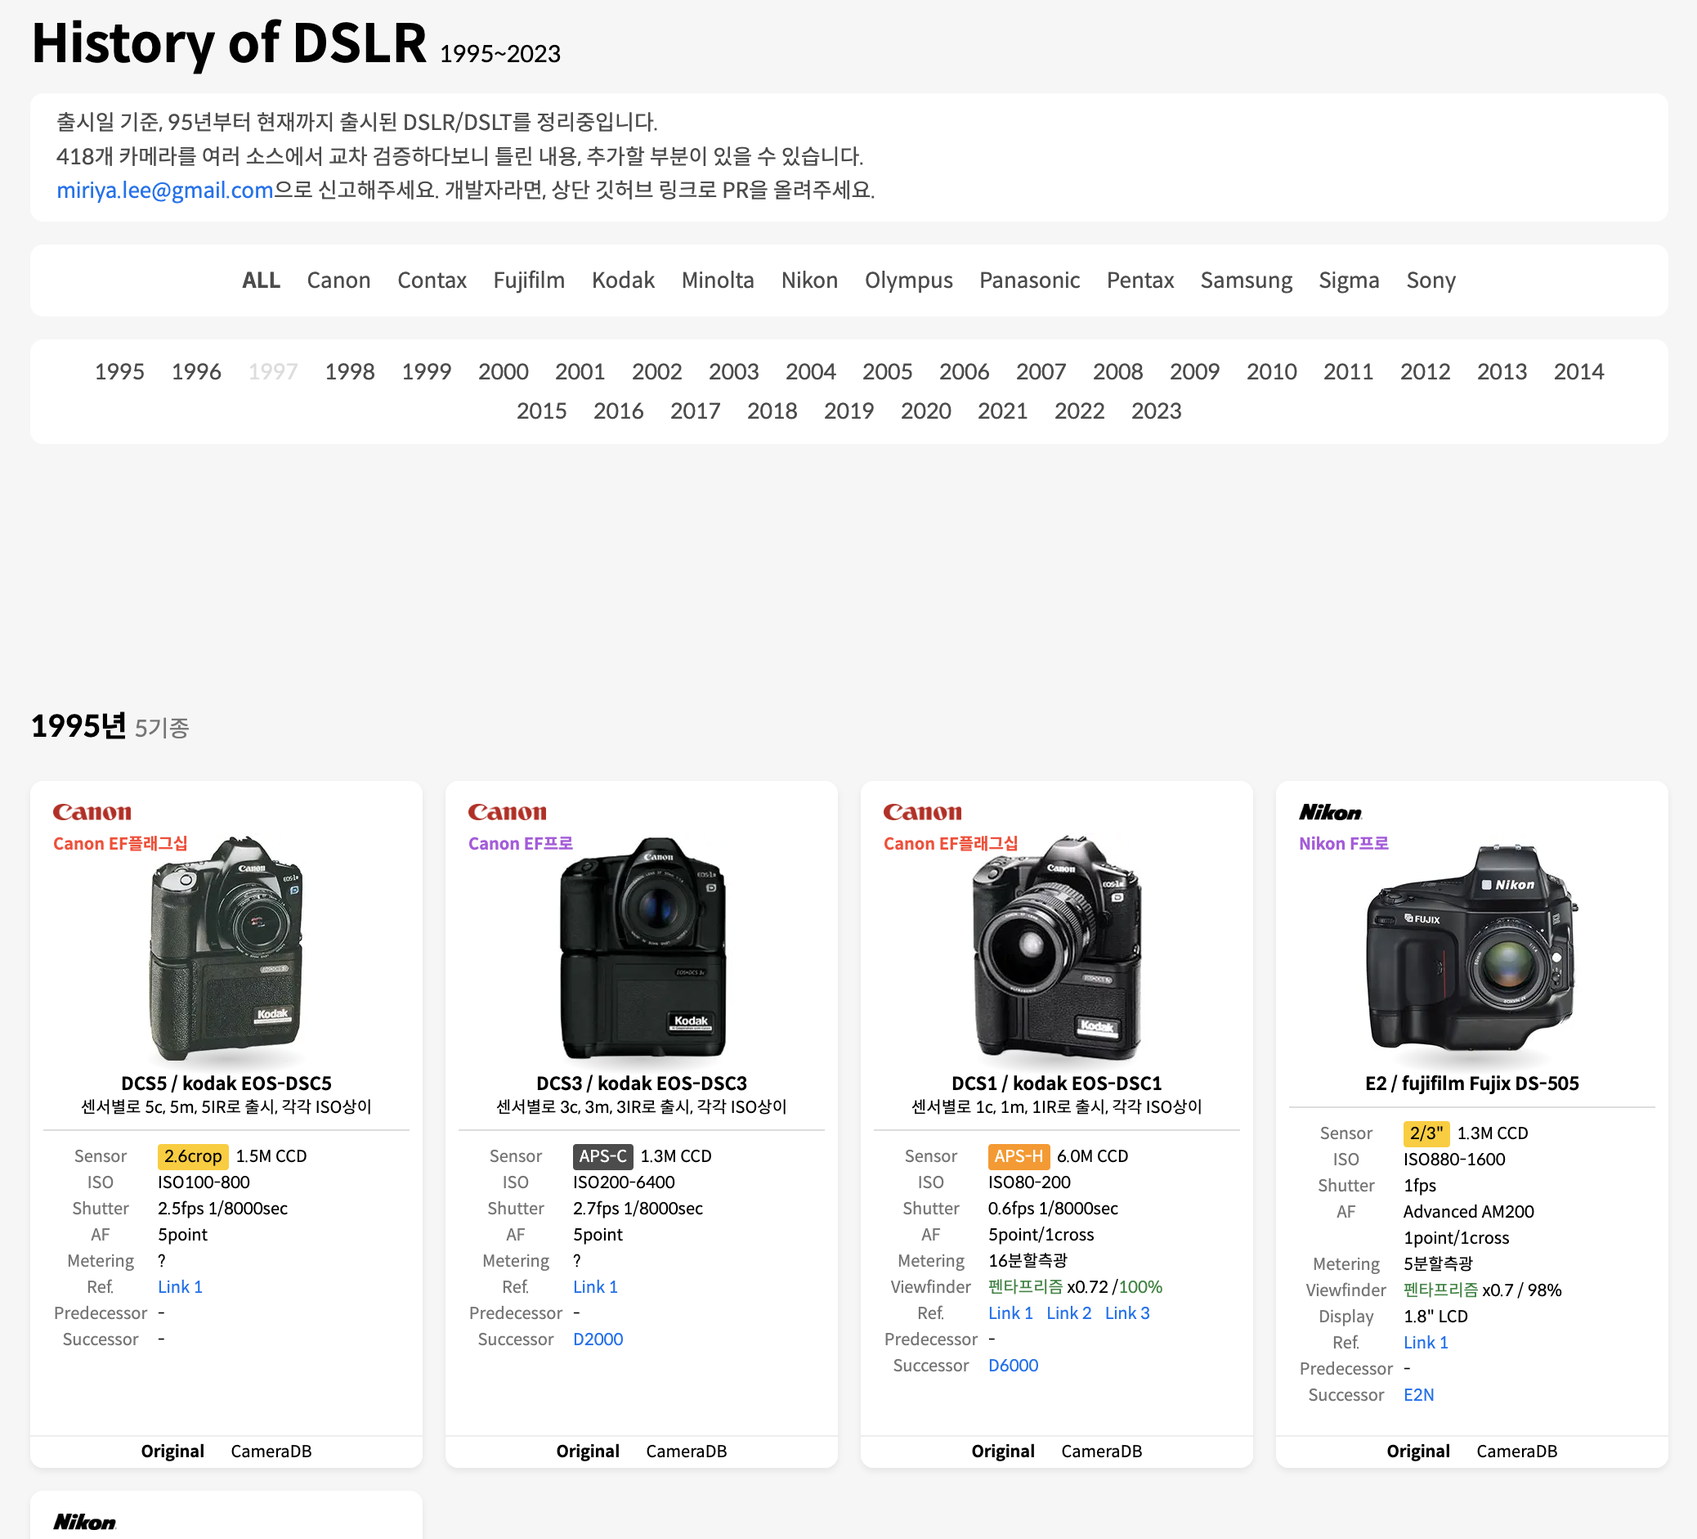
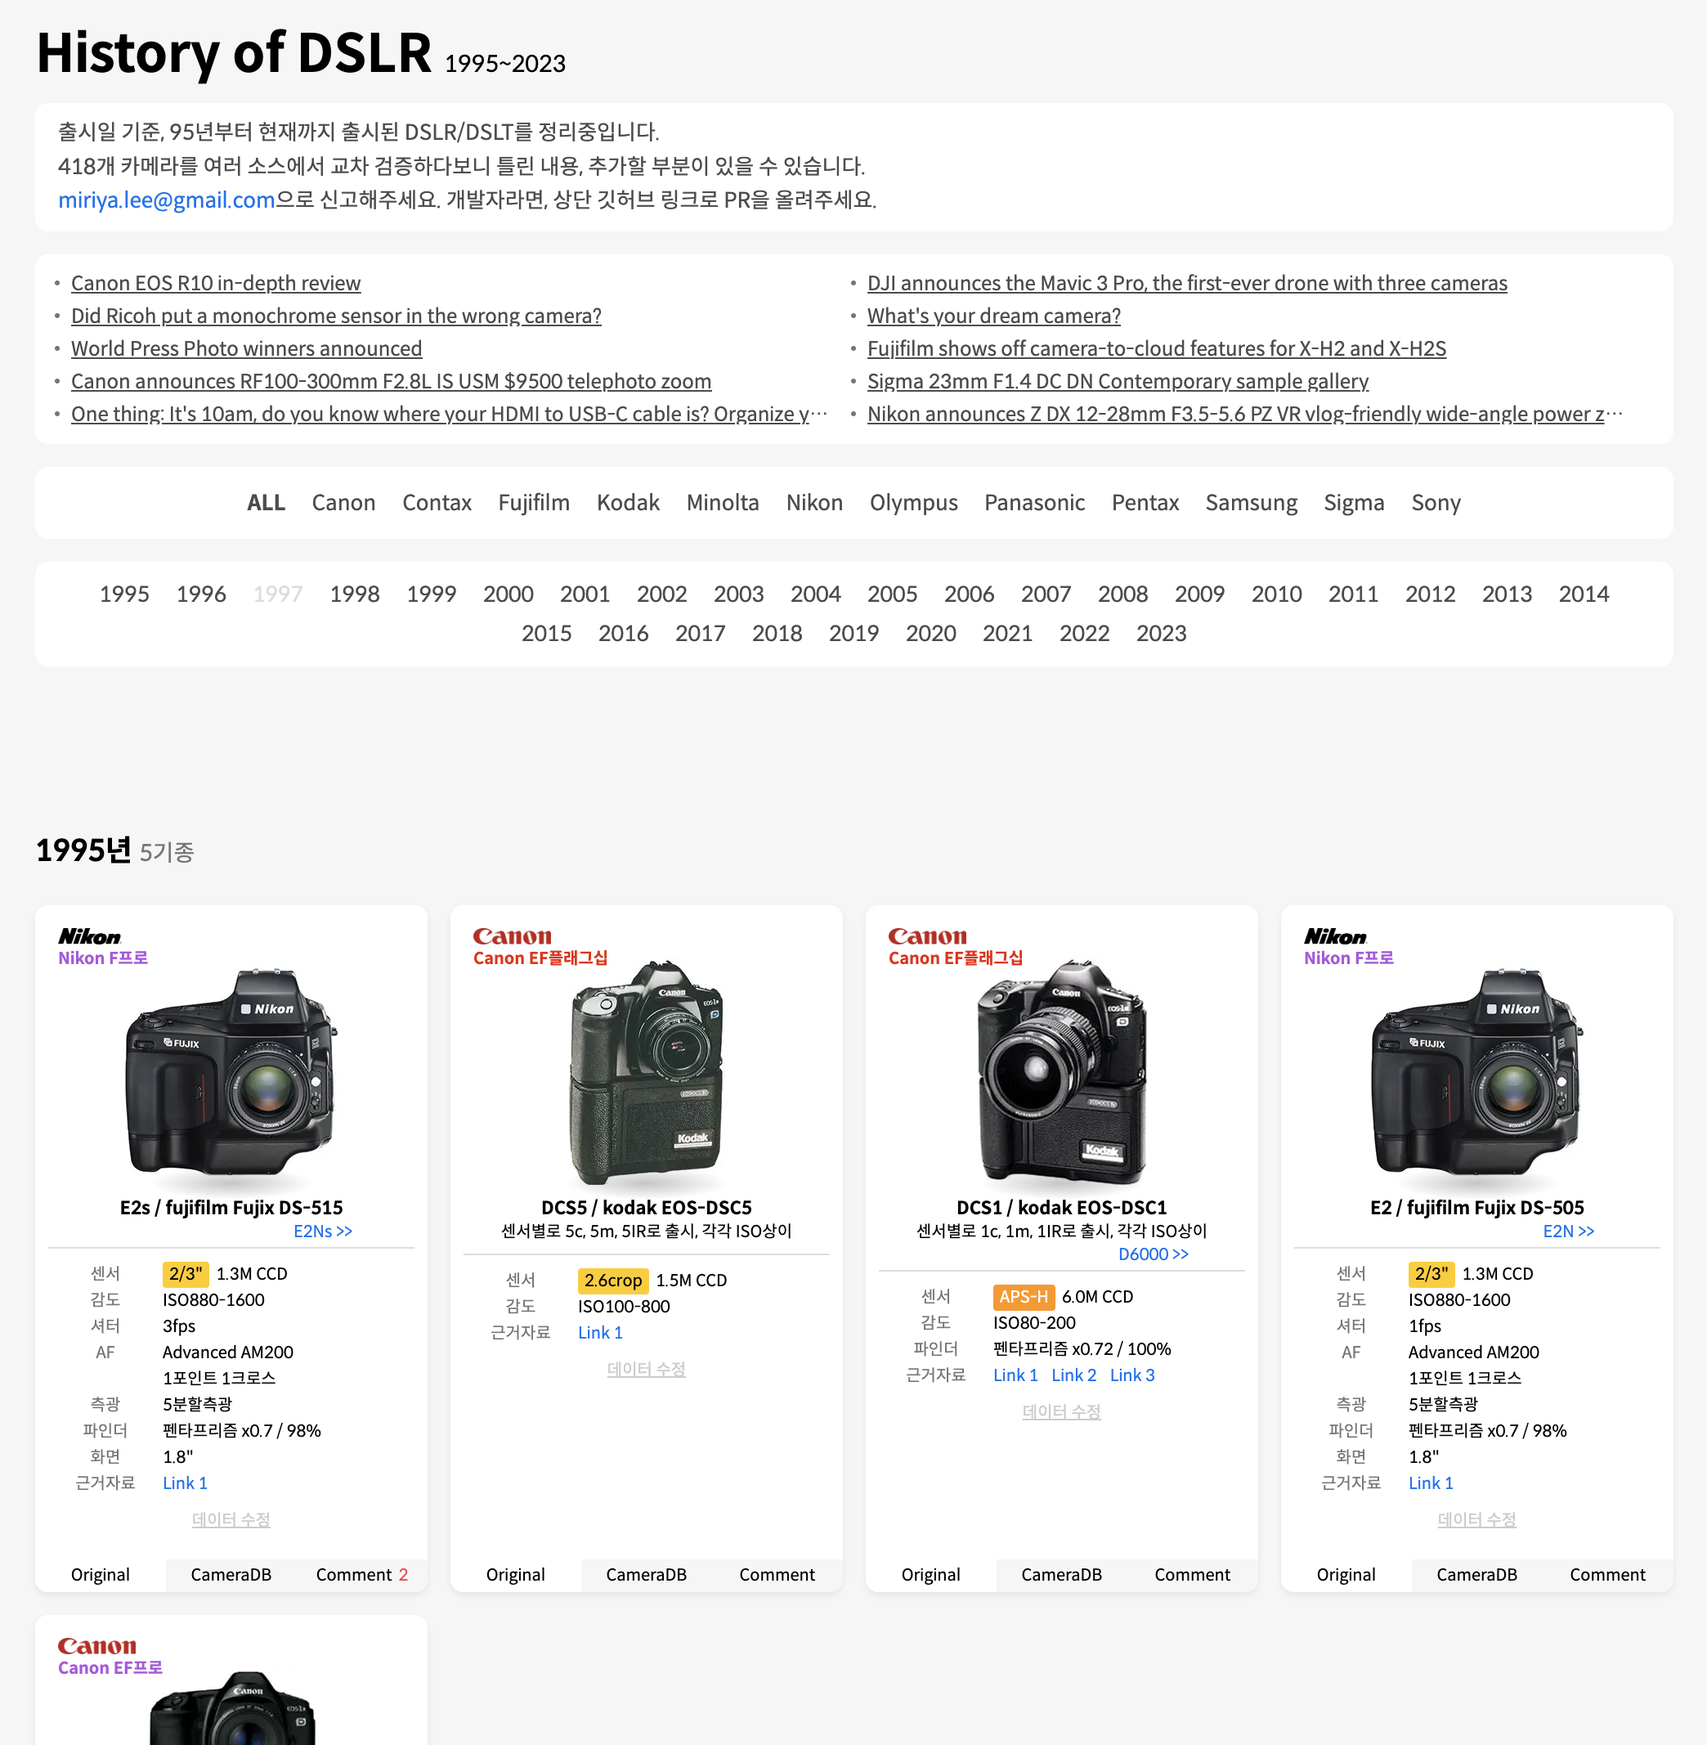
리드미 추가

diff --git a/src/containers/cameras/CameraYears/CameraCard/index.tsx b/src/containers/cameras/CameraYears/CameraCard/index.tsx
@@ -29,7 +29,7 @@ const TABS = [
   },
   {
     key: 'external',
-    label: 'CameraDB',
+    label: 'DigicamDB',
   },
   {
     key: 'comments',

diff --git a/README.md b/README.md
@@ -1,56 +1,5 @@
 <a href="https://codeclimate.com/github/miriyas/idols/maintainability"><img src="https://api.codeclimate.com/v1/badges/59cc1769c02f412ac124/maintainability" /></a> [![Hits](https://hits.seeyoufarm.com/api/count/incr/badge.svg?url=https%3A%2F%2Fgithub.com%2Fmiriyas%2Fidols&count_bg=%2379C83D&title_bg=%23555555&icon=&icon_color=%23E7E7E7&title=hits&edge_flat=false)](https://hits.seeyoufarm.com)
 
-### 목차
-
-1. [History of Idols](https://github.com/miriyas/miriya#history-of-idols)
-2. [History of DSLR](https://github.com/miriyas/miriya#history-of-dslr)
-3. [Pentaxian Encyclopedia](https://github.com/miriyas/miriya#pentaxian-encyclopedia)
-4. [개발자를 위한 글](https://github.com/miriyas/miriya#%EA%B0%9C%EB%B0%9C%EC%9E%90%EB%A5%BC-%EC%9C%84%ED%95%9C-%EA%B8%80)
-
-<br />
-<br />
-
-# History of Idols
-
-<img src='./reserved/screenshot-idols.png' alt=''>
-
-1996년부터 2019년까지의 아이돌 목록을 정리해봤습니다. 아이돌 등재 기준은 ['나무위키 한국 아이돌/역사'](https://namu.wiki/w/%ED%95%9C%EA%B5%AD%20%EC%95%84%EC%9D%B4%EB%8F%8C/%EC%97%AD%EC%82%AC) 입니다.
-
-각 아이돌을 클릭하면 해당 아이돌이 부른 대표곡의 하이라이트 부분이 재생됩니다.. 추억여행 한번 빠져보시죠.
-
-보다 보면 이 사람이 왜 아이돌이야? 하는 경우도 있을 것 같습니다만, 대량으로 등록하다보면 어쩔 수 없습니다. 직접 해보세요.
-
-정리할 자료가 수백명이나 되다 보니 내용상 누락이나 잘못된 부분이 있을 수 있습니다. ['이곳'](https://github.com/miriyas/idols/issues)에 글을 남겨주시거나, ['miriya.lee@gmail.com'](mailto://miriya.lee@gmail.com)으로 메일을 보내주세요.
-
-정말 큰 도움이 되고 싶을 경우, ['원본 데이터'](https://github.com/miriyas/idols/blob/main/src/constants/idols.ts)를 참조하여 유튜브 주소나 시작 시간 등을 만들어주시면 더욱 좋습니다.
-
-<br />
-<br />
-
-# History of DSLR
-
-<img src='./reserved/screenshot-cameras.png' alt=''>
-
-출시일 기준, 1995년부터 2023년 현재 까지의 DSLR 및 렌즈 교환식 카메라들을 정리해봤습니다.
-
-저는 대학생 시절 SLR클럽 활동을 활발하게 했었고, 당시에 플래시와 포토샵으로 [카메라 족보](http://www.slrclub.com/bbs/vx2.php?id=best_review&no=2248)와 [펜탁스 렌즈의 계보표](http://www.slrclub.com/bbs/vx2.php?id=pds&no=28147)를 만든 적이 있었지요.
-
-이번 History of DSLR은 12년 전에 만들었던 포토샵 버전 [카메라 족보](http://www.slrclub.com/bbs/vx2.php?id=best_review&no=2248)의 웹 리뉴얼 버전입니다.
-
-<br />
-<br />
-
-# Pentaxian Encyclopedia
-
-<img src='./reserved/screenshot-pentaxes1.png' alt=''>
-
-<img src='./reserved/screenshot-pentaxes2.png' alt=''>
-
-SLR클럽 활동 시절에 플래시로 만들었던 [펜탁스 렌즈 계보표](http://www.slrclub.com/bbs/vx2.php?id=pds&no=28147)의 웹 버전입니다. 당시 여러 회원분들의 도움을 받아 자료를 취합하여 꾸역꾸역 만들 수 있었네요. 12년만에 웹 버전으로 재탄생 했습니다.
-
-<br />
-<br />
-
 # 개발자를 위한 글
 
 [![Miriyas's GitHub stats](https://github-readme-stats.vercel.app/api?username=miriyas)](https://github.com/anuraghazra/github-readme-stats)
@@ -73,10 +22,43 @@ https://github.com/miriyas/miriya/blob/main/.eslintrc.json
 
 각종 버튼에는 GA를 붙여두었습니다.
 
+### 목차
+
+1. [History of Idols](https://github.com/miriyas/miriya#history-of-idols)
+2. [History of DSLR](https://github.com/miriyas/miriya#history-of-dslr)
+3. [Pentaxian Encyclopedia](https://github.com/miriyas/miriya#pentaxian-encyclopedia)
+4. [개발자를 위한 글](https://github.com/miriyas/miriya#%EA%B0%9C%EB%B0%9C%EC%9E%90%EB%A5%BC-%EC%9C%84%ED%95%9C-%EA%B8%80)
+
 <br />
 <br />
 
-## History of Idols
+# History of Idols
+
+#### 리뉴얼 후
+
+<img src='./reserved/screenshot-idols2.png' alt=''>
+
+#### 리뉴얼 전
+
+<img src='./reserved/screenshot-idols.png' alt=''>
+
+1994년부터 2019년까지의 아이돌 목록을 정리해봤습니다.
+
+각 아이돌을 클릭하면 해당 아이돌이 부른 대표곡의 하이라이트 부분이 재생됩니다. 추억여행 한번 빠져보시죠.
+
+#### 정리 빡쎔
+
+아이돌 등재 기준은 나무위키 ['한국 아이돌/역사'](https://namu.wiki/w/%ED%95%9C%EA%B5%AD%20%EC%95%84%EC%9D%B4%EB%8F%8C/%EC%97%AD%EC%82%AC) 입니다.
+
+저 문서를 긁어다가 [크롤링 샘플](https://miriya.vercel.app/idols/crawl) 페이지를 만들어놨는데, 이게 무슨 숙제 같이 되어버렸네요..<br>많아도 너무나 많네요. 한명당 이름, 데뷔 연도, 그리고 까다로운 해체 연도, 그리고 나무위키/멜론/바이브 링크를 걸고, 유튜브에서 음원 찾아다가 고유 아이디와 하이라이트 부분 시간을 입력해야 합니다. 거기다가 아이돌을 검색하여 적당히 잘 나온 세로로 긴 사진을 찾아 포토샵으로 편집해서 올려야하지요.
+
+보다 보면 이 사람이 왜 아이돌이야? 하는 경우도 있을 것 같습니다만, 기준은 나무위키입니다.
+
+정리할 자료가 수백명이나 되다 보니 내용상 누락이나 잘못된 부분이 있을 수 있습니다. ['이곳'](https://github.com/miriyas/idols/issues)에 글을 남겨주시거나, ['miriya.lee@gmail.com'](mailto://miriya.lee@gmail.com)으로 메일을 보내주세요. 주위 친구들 몇명이 서포터로 등록되어 수정이나 추가 등의 작업을 도와주었습니다.
+
+<br />
+
+#### 개발 이야기
 
 예전에 라인 입사할 때 만들었던 리액트 버전 아이돌 리스트의 리팩토링 버전입니다.
 
@@ -84,39 +66,69 @@ https://github.com/miriyas/miriya/blob/main/.eslintrc.json
 
 몇년 전 까지는 유튜브 자동 재생이 되었는데, 막혀버렸네요 :(
 
-이번 제 작업 목록의 첫번째이며, Next.js를 사용해서 만들었습니다. 그리고 하는 김에 Next 13의 experimental AppDir로 만들었네요.
+이번 제 작업 목록의 첫번째이며, Next.js를 사용해서 만들었습니다. 그리고 하는 김에 Next 13의 experimental appDir로 만들었네요.
 
 즐겨 쓰던 Isotope 라이브러리를 사용하여 반응형 목록 재정렬 기능을 만들었고, 대부분의 작업은 자료 수집 노가다네요.
 
 작업 중간에 Youtube JS 라이브러리를 사용하려고 했는데, 아예 전체 레이아웃을 다 바꿔야 해서 작업하지 않았습니다. 1996년부터 주요곡들을 한번에 다 들을 수 있게 해달라는 요청이 있었는데, 흐음, 그보다는 내용을 다 채우는게 우선이 될 것 같네요. 하아 이거 알바를 뽑을 수도 없고 ㅋㅋㅋ.. 천천히 하겠습니다.
 
+2023년 3월 30일 :
+
 일본의 사용자가 인터넷이 느리다 하여 아이돌 이미지들을 연도별로 모아 ImageSprite로 데이터 요청 수를 줄였습니다.
 
-<br />
+2023년 4월 25일 :
+
+하지만 아이돌을 추가하고 수정하는 기능을 만들다 보니 이미지 추가가 너무 번거로워져 다시 개별 이미지로 회귀했습니다. 하는 김에 이미지 품질도 끌어올리고, 디자인도 좀 더 모던하게 변경했습니다. 아무래도 조만간 Isotope를 떼어내고 좀 더 심플하게 가는게 어떨까.. 하는 생각이 들기도 합니다.
+
+매번 나무위키를 보면서 확인하기 힘들어서, ['한국 아이돌/역사'](https://namu.wiki/w/%ED%95%9C%EA%B5%AD%20%EC%95%84%EC%9D%B4%EB%8F%8C/%EC%97%AD%EC%82%AC) 문서를 파싱하여 [크롤링 샘플](https://miriya.vercel.app/idols/crawl) 페이지를 만들었습니다. 근데 이게 참 ㅋㅋ 나무위키 크롤링을 할라니까 서버를 너무 잘 만든겁니다. 그래서 그런지 2019년 이후로는 크롤링 성공했다는 블로그 글이 안보이더군요. 몇번 트라이 해보고, 본질은 이게 아니겠다 싶고 시간 낭비 하기 싫어서 그냥 저 페이지의 HTML을 그냥 긁어다 복사했습니다.
+
 <br />
 
-## History of DSLR
+# History of DSLR
+
+<img src='./reserved/screenshot-cameras.png' alt=''>
+
+출시일 기준, 1995년부터 2023년 현재 까지의 DSLR 및 렌즈 교환식 카메라들을 정리해봤습니다.
+
+저는 대학생 시절 SLR클럽 활동을 활발하게 했었고, 당시에 플래시와 포토샵으로 [카메라 족보](http://www.slrclub.com/bbs/vx2.php?id=best_review&no=2248)와 [펜탁스 렌즈의 계보표](http://www.slrclub.com/bbs/vx2.php?id=pds&no=28147)를 만든 적이 있었지요.
 
 이번 History of DSLR은 12년 전에 만들었던 포토샵 버전 [카메라 족보](http://www.slrclub.com/bbs/vx2.php?id=best_review&no=2248)의 웹 리뉴얼 버전입니다.
 
-이번 Next.js experimental AppDir을 사용하게 되며 가장 힘들었던 부분인데요, 일단은 쿼리스트링과 해시로 라우팅 하기가 매우 까다롭습니다. canary20 버전 기준으로 리랜더 문제와 해시값 가져올 수 없는 문제들이 있어 SSR과 병행하기 참 힘들었습니다. 코드를 보시면 이벤트리스너를 다는 등 상당히 성가시게 구현해놓은 모습을 볼 수 있습니다. 아마 버전업이 되어가면서 하나하나 단순하게 고쳐나가지 싶네요. 이딴걸 구현하려고 이렇게 했다고?? 싶은 부분이 조금 보일겁니다. Successor/Prodecessor 링크 부분이 제일 빡쎘습니다.
+<br />
 
-필터를 빡쎄게 넣으면서 Isotope는 걷어내고 일반적인 플렉스로 정렬했습니다. 특기할만한 것은, CameraDB라고 외국의 어떤 분이 저 처럼 원맨 삽질을 하며 정리해놓은게 있길래, 이번 Next api 라우트를 사용해 서버사이드 요청 / HTML 파싱을 하는 기능을 만들어봤습니다. 남의 홈페이지에 테러하지 않기 위해 캐싱을 잘 해두려 했는데, 아이고 맙소사.. Next.js 현재 버전에서는 요청을 한번이 아니라 두번씩 보내는 버그가 남아있습니다.
+#### 개발 이야기
+
+이번 Next.js experimental AppDir을 사용하게 되며 가장 힘들었던 부분인데요, 일단은 쿼리스트링과 해시로 라우팅 하기가 매우 까다롭습니다. next@13.2.3-canary.20 버전 기준으로 리랜더 문제와 해시값 가져올 수 없는 문제들이 있어 SSR과 병행하기 참 힘들었습니다. 코드를 보시면 별 쓸데 없는 곳에 굳이 이벤트리스너를 다는 등 상당히 성가시게 구현해놓은 모습을 볼 수 있습니다. 아마 버전업이 되어가면서 하나하나 단순하게 고쳐나가지 싶네요. 이딴걸 구현하려고 이렇게 했다고?? 싶은 부분이 조금 보일겁니다. [Successor/Prodecessor 링크 부분](https://github.com/miriyas/miriya/blob/main/src/containers/cameras/CameraYears/CameraCard/DataInternal/Siblings/SiblingLink.tsx)이 제일 빡쎘습니다.
+
+필터를 빡쎄게 넣으면서 Isotope는 걷어내고 일반적인 flex로 정렬했습니다. 특기할만한 것은, [DigicamDB](https://www.digicamdb.com/)라고 외국의 어떤 분이 저 처럼 원맨 삽질을 하며 정리해놓은게 있길래, 이번 Next api 라우트를 사용해 서버사이드 요청 / HTML 파싱을 하는 기능을 만들어봤습니다. 그리고 DigicamDB 클릭시 카드가 휙 돌아가면서 나오는 부분은 CSS의 backface-visibility를 사용했습니다. 남의 홈페이지에 테러하지 않기 위해 캐싱을 잘 해두려 했는데, 아이고 맙소사.. Next.js 현재 버전에서는 요청을 한번이 아니라 두번씩 보내는 버그가 남아있습니다.
 
 카메라 하단에 잘 보면 흐릿한 그림자가 보이는데요, CSS만으로 구현했습니다. 카메라 이미지는 모두 흰색 배경의 정사각형 JPEG 파일인데, 그림자를 띄운 다음 CSS의 mix-blend-mode: multiply 를 이용해 이미지가 뒷배경에 녹아들게 만들었습니다. 흰 배경 정사각형이라 유사한 drop-shadow()를 쓸 수 없어 조금 아쉬웠던 부분.
 
 카메라 이미지들은 16x16px의 블러 이미지를 플레이스홀더로 넣어두었습니다. 보니까 카메라들이 축소하면 다 비슷하게 보여서 한장으로 다 퉁칠 수 있었네요.
 
-<br />
+이후에 댓글 기능을 달고, 수정 기능을 달고, 수정을 할 경우 누가 어떤 부분을 수정하는지 기록을 남기는 기능도 만들었습니다. 해당 기능은 파이어베이스로 구현했습니다. 아... 애초에 그냥 노드로 서버 짜서 만들걸 뭣하러 파이어베이스를 썼을꼬...
+
+또 크롤링 기능을 만든 김에 아예 상단에 DPreview의 카메라 뉴스를 보여주도록 만들었습니다. 처음에는 HTML을 싹 긁을라다가, DPreview에서 RSS를 제공하고 있길래 그걸 사용했죠. cheerio를 사용했는데, XML의 경우 xmlMode: true를 넣어줘야 정상 작동합니다.
+
 <br />
 
-## Pentaxian Encyclopedia
+# Pentaxian Encyclopedia
 
-SLR클럽 활동 시절에 플래시로 만들었던 [펜탁스 렌즈 계보표](http://www.slrclub.com/bbs/vx2.php?id=pds&no=28147)의 웹 버전입니다. 아시다시피 플래시가 전부 지원 중단이 되어버려서, PaleMoon 브라우저에 오래된 플러그인 설치하여 겨우 예전 파일을 열어서 스크린샷을 찍어다가 웹 버전으로 옮겼습니다.
+<img src='./reserved/screenshot-pentaxes1.png' alt=''>
+
+<img src='./reserved/screenshot-pentaxes2.png' alt=''>
+
+SLR클럽 활동 시절에 플래시로 만들었던 [펜탁스 렌즈 계보표](http://www.slrclub.com/bbs/vx2.php?id=pds&no=28147)의 웹 버전입니다. 당시 여러 회원분들의 도움을 받아 자료를 취합하여 꾸역꾸역 만들 수 있었네요. 12년만에 디자인을 똑같이 유지하며 웹 버전으로 재탄생 했습니다.
+
+<br />
+
+#### 개발 이야기
+
+아시다시피 플래시가 전부 지원 중단이 되어버려서, PaleMoon 브라우저에 오래된 플러그인 설치하여 겨우 예전 파일을 열어서 스크린샷을 찍어다가 웹 버전으로 옮겼습니다.
 
 각종 리드미나 글 들은 마크다운 파일로 만들어 렌더링했습니다. 서브라우팅 부분은 Next AppDir의 layout을 사용했고, 타임라인 부분은 드래그해서 스크롤 할 수 있게 만들었습니다. 맨 우측의 화살표 부분은 IntersectionObserver를 사용했습니다. 캔버스로 구현할까 하다가, 목적에 맞지 않는것 같아 단순 HTML로 작업했네요.
 
-타임라인의 모눈의 경우, 처음에는 ul/li를 사용했는데, 가로로 120개, 세로로 15개 해서 총 1800개의 DOM을 만들어야 했습니다. 이거 도저히 무식해서 눈뜨고 봐 줄 수가 없어서 방법을 찾다가, repeating-linear-gradient 4중첩을 이용해 DOM 하나로 구현해냈습니다. src/containers/pentax/TabDSLR/index.module.scss 참고.
+타임라인의 모눈의 경우, 처음에는 ul/li를 사용했는데, 가로로 120개, 세로로 15개 해서 총 1800개의 DOM을 만들어야 했습니다. 이거 도저히 무식해서 눈뜨고 봐 줄 수가 없어서 방법을 찾다가, repeating-linear-gradient 4중첩을 이용해 DOM 하나로 구현해냈습니다. [src/containers/pentax/TabDSLR/index.module.scss](https://github.com/miriyas/miriya/blob/main/src/containers/pentax/TabDSLR/index.module.scss#L75) 참고.
 
 <br />
 <br />
@@ -125,10 +137,12 @@ SLR클럽 활동 시절에 플래시로 만들었던 [펜탁스 렌즈 계보표
 
 아마도 i18n 작업이나 댓글 기능을 달지 않을까 싶네요. i18n은 Next AppDir에서 난리도 아니라는 말이 있어서 조금 긴장하는중.
 
+...는 댓글도 달았고, 댓글 달라고 로그인도 만들고, 로그인 만들다보니 권한 관리도 만들고.. 수정 기록도 만들고, 심지어 추가 기능까지 만들고...
+
 <br />
 <br />
 
-# [Next.js 13.2.5-canary](https://github.com/vercel/next.js/releases) with Experimental appDir
+# [Next.js 13 canary](https://github.com/vercel/next.js/releases) with Experimental appDir
 
 - 현재 canary 30에서도 아래 문제들은 재현되고 있음.
 
